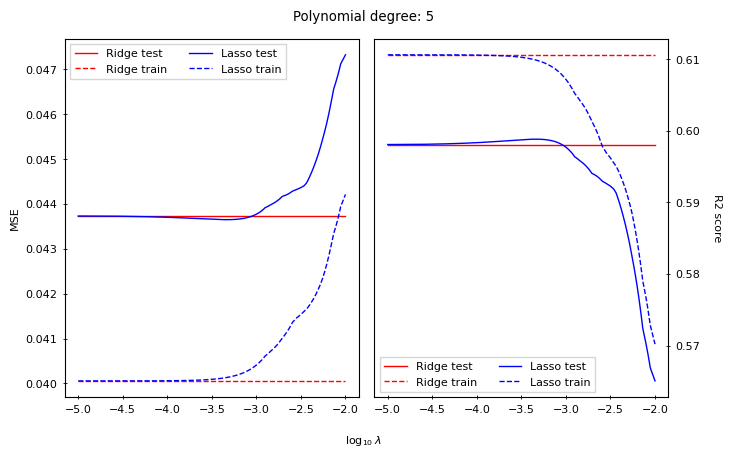
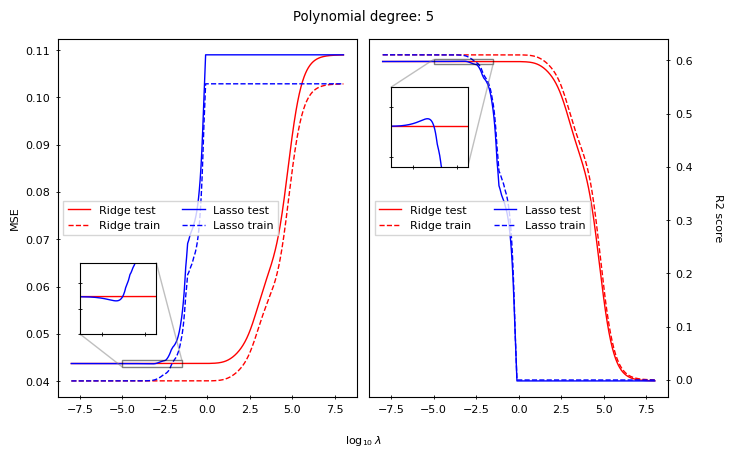
Added zoom in on the figure

diff --git a/project1/src.py b/project1/src.py
@@ -367,6 +367,41 @@ class Regression:
             ax[1].yaxis.set_tick_params(which='both', left=False, labelleft=False, right=True, labelright=True)
             ax[1].legend(ncol=2)
 
+            if self.figname == 'geodata':
+                x01, x02, y01, y02 = -5, -1.5, 0.043, 0.0444
+                axins0 = ax[0].inset_axes(
+                    [-7.5, 0.05, 4.5, 0.015],
+                    transform=ax[0].transData,
+                    xlim=(x01, x02),
+                    ylim=(y01, y02),
+                    xticklabels=[],
+                    yticklabels=[]
+                )
+                axins0.plot(x, mse_test, 'r')
+                axins0.plot(x, mse_test_lasso, 'b')
+                _, corners = ax[0].indicate_inset_zoom(axins0, ec='k')
+                corners[0].set_visible(True)
+                corners[1].set_visible(False)
+                corners[2].set_visible(False)
+                corners[3].set_visible(True)
+
+                x11, x12, y11, y12 = -5, -1.5, 0.594, 0.602
+                axins1 = ax[1].inset_axes(
+                    [-7.5, 0.4, 4.5, 0.15],
+                    transform=ax[1].transData,
+                    xlim=(x11, x12),
+                    ylim=(y11, y12),
+                    xticklabels=[],
+                    yticklabels=[]
+                )
+                axins1.plot(x, r2_test, 'r')
+                axins1.plot(x, r2_test_lasso, 'b')
+                _, corners1 = ax[1].indicate_inset_zoom(axins1, ec='k')
+                corners1[0].set_visible(False)
+                corners1[1].set_visible(True)
+                corners1[2].set_visible(True)
+                corners1[3].set_visible(False)
+
             fig.supxlabel(x_label, fontsize=8)
             fig.tight_layout()
             fig.savefig('figures/' + model + '_lasso_' + self.figname + '.pdf')

diff --git a/project1/geodata.py b/project1/geodata.py
@@ -24,7 +24,7 @@ terrain = _terrain[x, y]
 reg = Regression(x, y, terrain.T, 'geodata')
 reg.OLS(30, store_beta=False)
 reg.plot_evolution('OLS')
-reg.ridge(-5, -2, 5, 500)
+reg.ridge(-8, 8, 5, 1000)
 print(reg.OLS_results)
 reg.plot_evolution('ridge')
 reg.plot_evolution('lasso')
